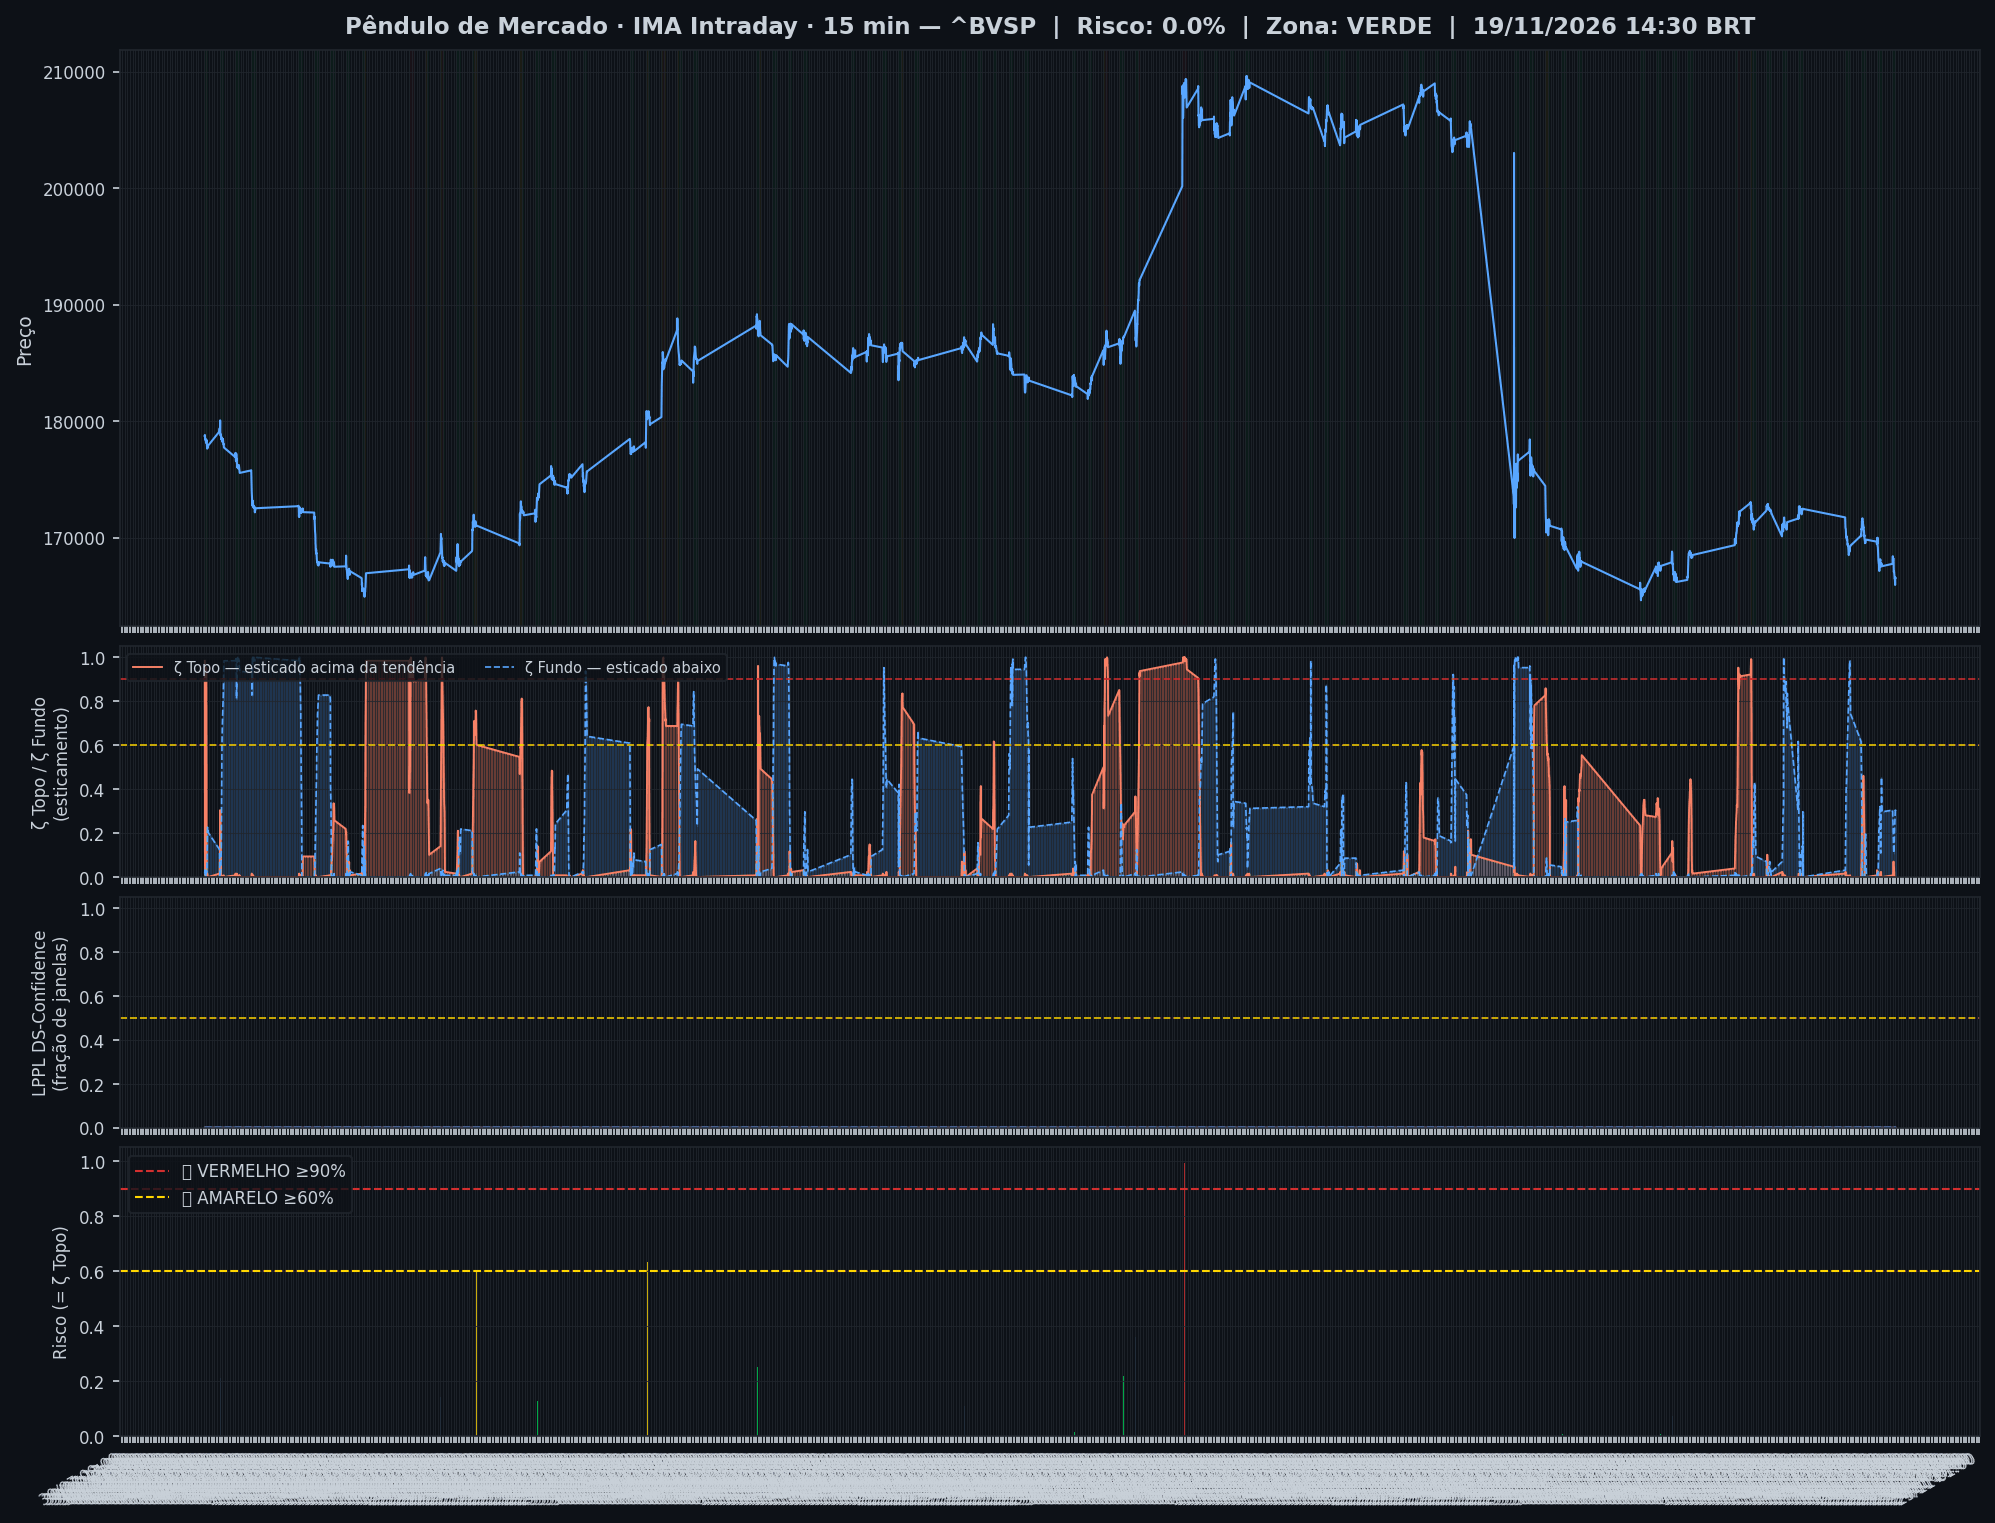
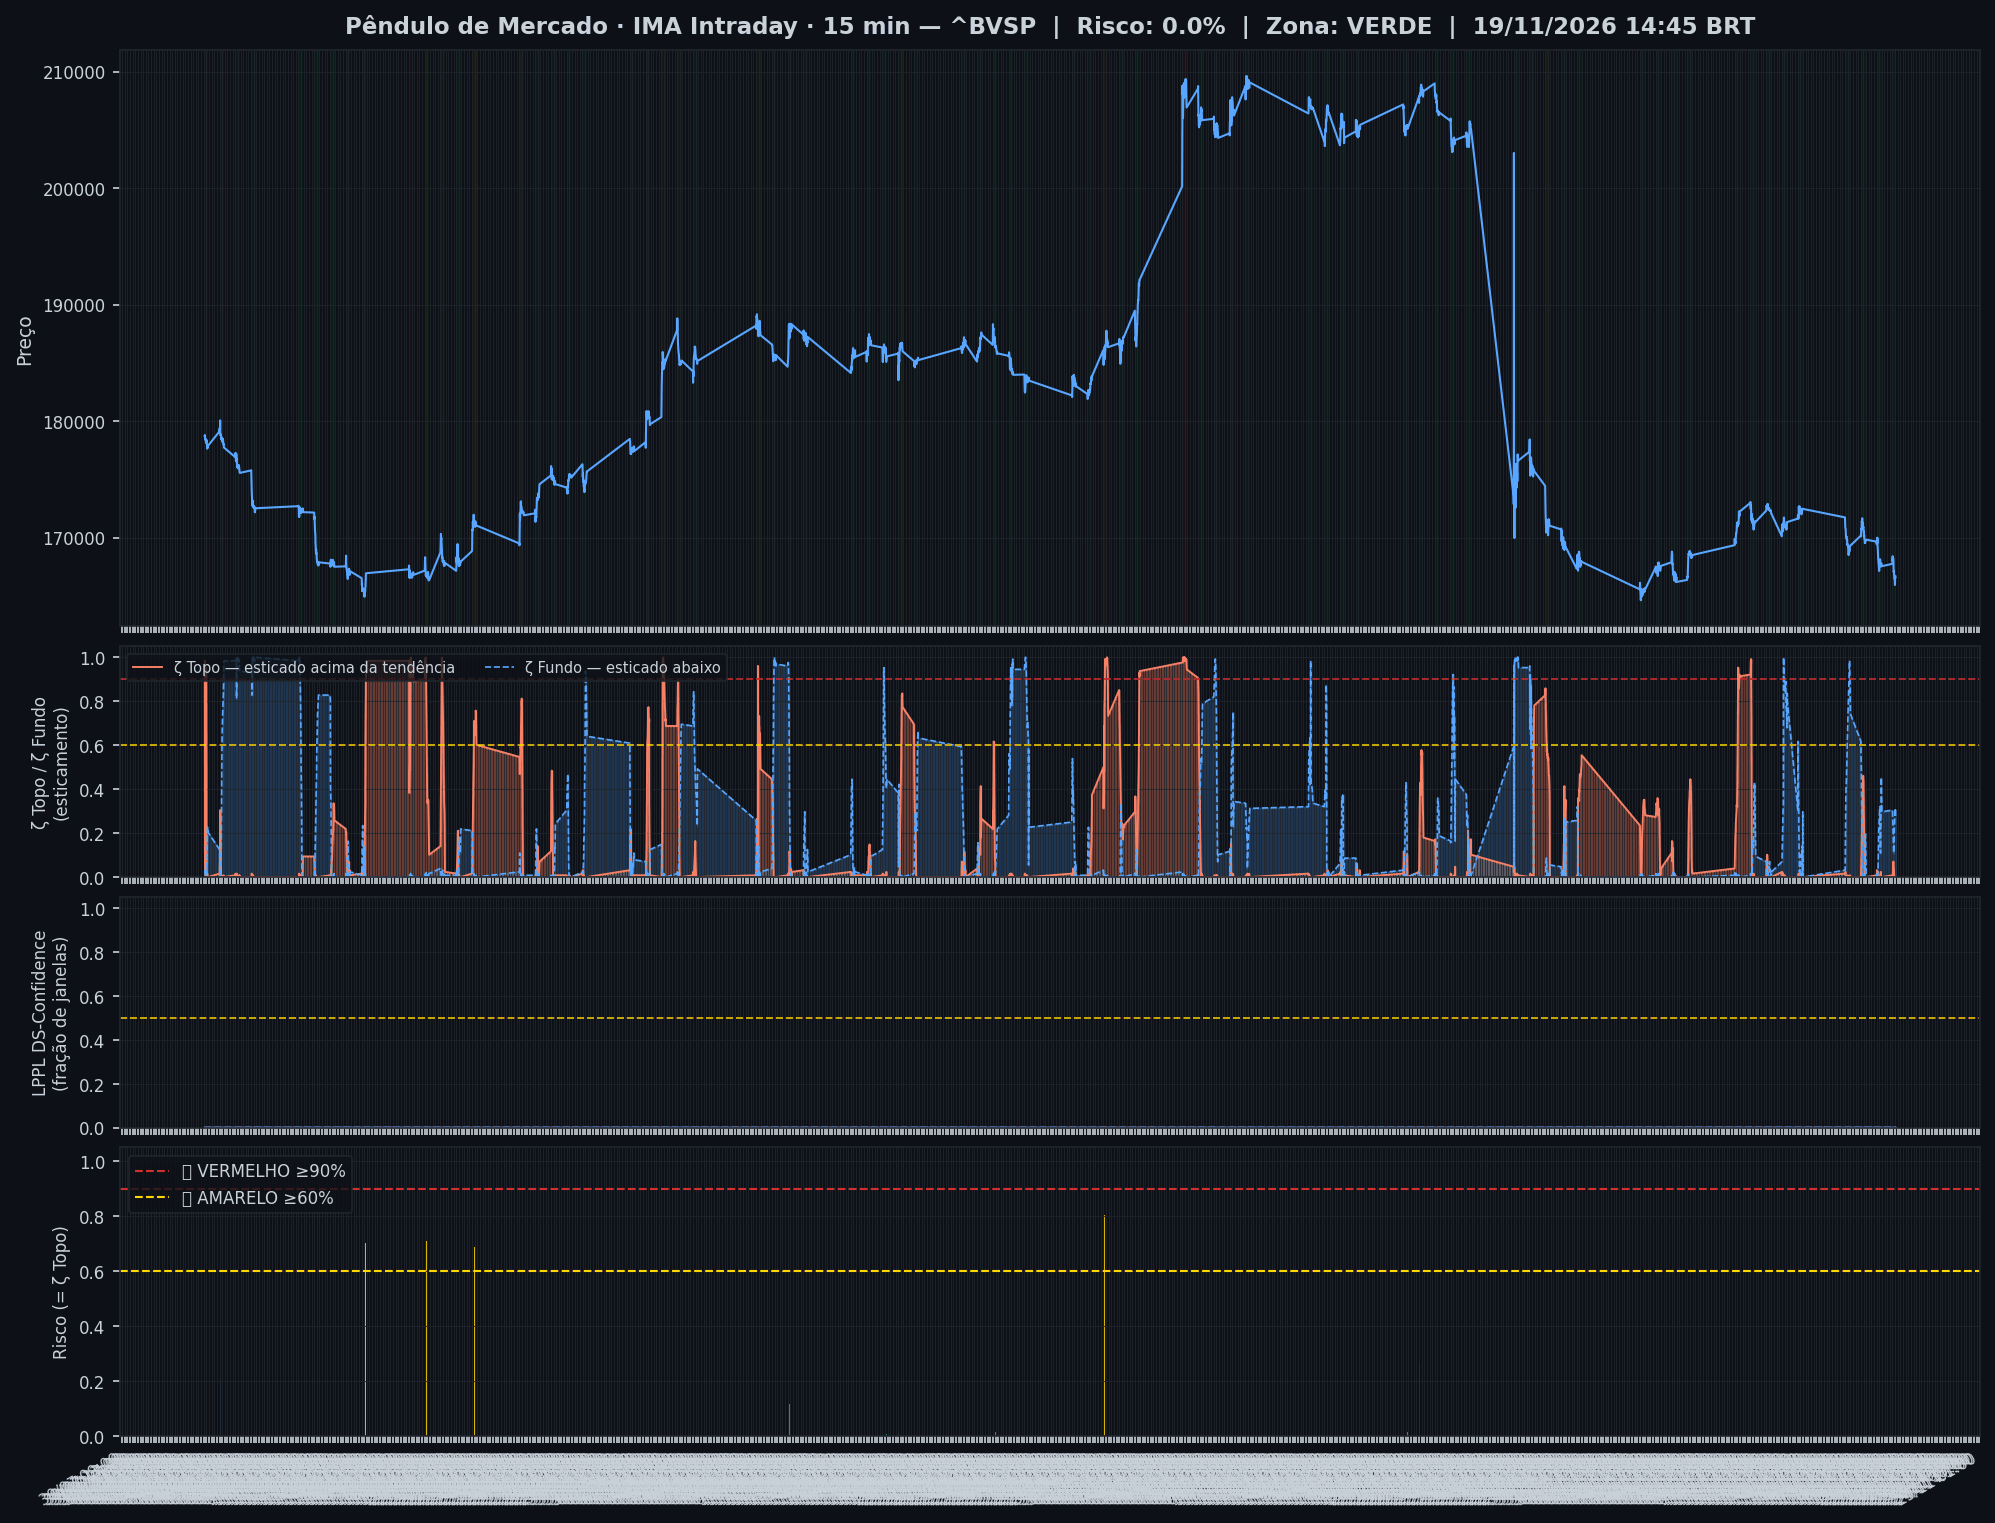
🤖 Auto: Sinal 19/11/2026 15:01

Changed region(s): [[0.7459, 0.4938, 0.808, 0.5863]]

diff --git a/content/intraday/2026-11-19.md b/content/intraday/2026-11-19.md
@@ -1,13 +1,13 @@
 ---
-title: "🟢 Intraday 19/11/2026 14:30 BRT — VERDE"
+title: "🟢 Intraday 19/11/2026 14:45 BRT — VERDE"
 date: 2026-11-19
 tags: [intraday]
 ---
 
-> [!success] Onde o mercado está agora (19/11 14:30, candles de 15 min): **🟢 Calmo**
+> [!success] Onde o mercado está agora (19/11 14:45, candles de 15 min): **🟢 Calmo**
 > `Pânico ◀───────●─────────────▶ Euforia`
 >
-> **O Ibovespa cai 0,60% agora, aos 166.535 pontos.** O preço está dentro da sua faixa normal, sem excesso para cima nem para baixo.
+> **O Ibovespa cai 0,52% agora, aos 166.663 pontos.** O preço está dentro da sua faixa normal, sem excesso para cima nem para baixo.
 > No gráfico diário: 🌱 Fundo se desfazendo.
 >
 > *Leitura educacional baseada em 26 anos de dados. Não é recomendação de investimento.*
@@ -20,7 +20,7 @@ tags: [intraday]
 > | 📍 **Sinais** | hoje: nenhum sinal | [abrir](sinais-topo-fundo/) |
 > | 🧪 **Placar ao vivo** | 1 operação(ões), 0 com lucro, soma -0,8% | [abrir](operacoes/) |
 
-> [!success] IMA Intraday · 15 min (19/11 14:30): 🟢 **VERDE** — Risco 0% · ＝ +0 p.p. vs leitura anterior
+> [!success] IMA Intraday · 15 min (19/11 14:45): 🟢 **VERDE** — Risco 0% · ＝ +0 p.p. vs leitura anterior
 > `░░░░░░░░░░░░░░░░░░░░`
 > Preço na faixa normal em torno da tendência.
 
@@ -32,13 +32,13 @@ tags: [intraday]
 >
 > *Leitura educacional baseada em 26 anos de dados, não recomendação. [Como usar](../metodologia/crise#3-como-usar-na-prática).*
 
-| Indicador — IMA Intraday · 15 min (19/11 14:30) | Valor |
+| Indicador — IMA Intraday · 15 min (19/11 14:45) | Valor |
 |---|---|
 | 🔴 ζ Topo — preço esticado acima da tendência | **0%** |
-| 🔵 ζ Fundo — preço esticado abaixo da tendência | 30% |
+| 🔵 ζ Fundo — preço esticado abaixo da tendência | 27% |
 | 🫧 LPPL bolha — alta super-exponencial (risco de crash) | 0% |
 | 🫧 LPPL antibolha — queda super-exponencial (risco de repique) | 0% |
-| 📊 Ibovespa | 166.535 pts |
+| 📊 Ibovespa | 166.663 pts |
 
 ![Gráfico do sinal](../graficos/sinal_intraday.png)
 
@@ -46,6 +46,7 @@ tags: [intraday]
 
 | Data | Zona | Evento | Risco | ζ Topo | ζ Fundo | LPPL |
 |---|---|---|---|---|---|---|
+| 2026-11-19 14:45 | 🟢 VERDE |  | **0%** | 0% | 27% | 0% |
 | 2026-11-19 14:30 | 🟢 VERDE |  | **0%** | 0% | 30% | 0% |
 | 2026-11-19 14:15 | 🟢 VERDE |  | **0%** | 0% | 30% | 0% |
 | 2026-11-19 14:00 | 🟢 VERDE |  | **0%** | 0% | 30% | 0% |
@@ -75,7 +76,6 @@ tags: [intraday]
 | 2026-11-18 16:15 | 🟢 VERDE |  | **2%** | 2% | 23% | 0% |
 | 2026-11-18 16:00 | 🟢 VERDE |  | **2%** | 2% | 16% | 0% |
 | 2026-11-18 15:45 | 🟢 VERDE |  | **2%** | 2% | 11% | 0% |
-| 2026-11-18 15:30 | 🟢 VERDE |  | **1%** | 1% | 15% | 0% |
 
 <small>Destaques: 🟡 ≥ 60% · 🔴 ≥ 90% (Risco e ζ Topo) · 🔵 ≥ 60% · 🔪 ≥ 90% (ζ Fundo) · 🫧 ≥ 30% · 🫧🔴 ≥ 50% (LPPL)</small>
 
@@ -84,43 +84,43 @@ tags: [intraday]
 **4% dos ativos em tensão** (0🔴 1🟡) · **4 com ζ Fundo alto** — quanto mais ativos disparam juntos, mais confiável o sinal.
 
 > [!danger] Em destaque no multi-ativo
-> 🔪 **PRIO** ζ Fundo 100% · 🟡 **BRASIL** ζ Topo 88% · 🔵 **SUZANO S.A.** ζ Fundo 81% · 🔵 **TELEF BRASIL** ζ Fundo 73% · 🔵 **REDE D OR** ζ Fundo 65%
+> 🔪 **PRIO** ζ Fundo 100% · 🟡 **BRASIL** ζ Topo 86% · 🔵 **SUZANO S.A.** ζ Fundo 79% · 🔵 **TELEF BRASIL** ζ Fundo 68% · 🔵 **REDE D OR** ζ Fundo 67%
 
 | Zona | Ativo | Setor | ζ Topo | ζ Fundo |
 |---|---|---|---|---|
 | 🟢 | **PRIO** | Petróleo | 0.0% | 🔪 **100.0%** |
-| 🟡 | **BRASIL** | Financeiro | 🟡 **87.5%** | 0.0% |
-| 🟢 | **SUZANO S.A.** | Papel/Celulose | 0.8% | 🔵 **81.2%** |
-| 🟢 | **TELEF BRASIL** | Outros | 0.0% | 🔵 **73.4%** |
-| 🟢 | **REDE D OR** | Saúde | 0.0% | 🔵 **64.8%** |
-| 🟢 | **RUMO S.A.** | Outros | 0.0% | 56.2% |
-| 🟢 | **AMBEV S/A** | Consumo | 2.3% | 42.2% |
-| 🟢 | **BRADESCO** | Financeiro | 0.0% | 41.4% |
-| 🟢 | **COPEL** | Energia | 0.0% | 29.7% |
-| 🟢 | **WEG** | Industrial | 0.8% | 23.4% |
-| 🟢 | **AXIA ENERGIA** | Energia | 0.0% | 18.8% |
-| 🟢 | **LOCALIZA** | Aluguel | 0.8% | 15.6% |
-| 🟢 | **PETROBRAS** | Petróleo | 0.0% | 13.3% |
-| 🟢 | **ULTRAPAR** | Outros | 0.0% | 13.3% |
-| 🟢 | **VALE** | Mineração | 0.0% | 11.7% |
-| 🟢 | **PETROBRAS** | Petróleo | 0.0% | 11.7% |
-| 🟢 | **GERDAU** | Siderurgia | 11.7% | 4.7% |
-| 🟢 | **BTGP BANCO** | Financeiro | 0.0% | 10.2% |
-| 🟢 | **EQUATORIAL** | Energia | 0.8% | 9.4% |
-| 🟢 | **USD/BRL** | Câmbio | 9.4% | 6.2% |
-| 🟢 | **ITAUUNIBANCO** | Financeiro | 0.0% | 5.5% |
-| 🟢 | **EMBRAER** | Outros | 1.6% | 2.3% |
-| 🟢 | **B3** | Financeiro | 2.3% | 1.6% |
-| 🟢 | **SABESP** | Saneamento | 1.6% | 1.6% |
-| 🟢 | **ITAUSA** | Financeiro | 1.6% | 1.6% |
-| 🟢 | **ENEVA** | Energia | 0.8% | 0.8% |
-| 🟢 | **VIBRA** | Energia | 0.0% | 0.8% |
+| 🟡 | **BRASIL** | Financeiro | 🟡 **85.9%** | 0.0% |
+| 🟢 | **SUZANO S.A.** | Papel/Celulose | 0.0% | 🔵 **78.9%** |
+| 🟢 | **TELEF BRASIL** | Outros | 0.0% | 🔵 **68.0%** |
+| 🟢 | **REDE D OR** | Saúde | 0.0% | 🔵 **67.2%** |
+| 🟢 | **RUMO S.A.** | Outros | 0.0% | 57.0% |
+| 🟢 | **BRADESCO** | Financeiro | 0.0% | 42.2% |
+| 🟢 | **AMBEV S/A** | Consumo | 3.9% | 36.7% |
+| 🟢 | **COPEL** | Energia | 0.0% | 21.1% |
+| 🟢 | **WEG** | Industrial | 0.0% | 20.3% |
+| 🟢 | **B3** | Financeiro | 18.0% | 2.3% |
+| 🟢 | **AXIA ENERGIA** | Energia | 0.0% | 14.8% |
+| 🟢 | **PETROBRAS** | Petróleo | 0.0% | 14.1% |
+| 🟢 | **PETROBRAS** | Petróleo | 0.0% | 10.9% |
+| 🟢 | **EQUATORIAL** | Energia | 0.0% | 10.9% |
+| 🟢 | **GERDAU** | Siderurgia | 10.9% | 3.1% |
+| 🟢 | **LOCALIZA** | Aluguel | 0.8% | 10.9% |
+| 🟢 | **VALE** | Mineração | 0.0% | 10.2% |
+| 🟢 | **USD/BRL** | Câmbio | 4.7% | 9.4% |
+| 🟢 | **ULTRAPAR** | Outros | 0.0% | 8.6% |
+| 🟢 | **BTGP BANCO** | Financeiro | 1.6% | 4.7% |
+| 🟢 | **SABESP** | Saneamento | 3.9% | 2.3% |
+| 🟢 | **ITAUSA** | Financeiro | 3.1% | 0.8% |
+| 🟢 | **ENEVA** | Energia | 3.1% | 0.8% |
+| 🟢 | **ITAUUNIBANCO** | Financeiro | 1.6% | 2.3% |
+| 🟢 | **EMBRAER** | Outros | 0.8% | 2.3% |
+| 🟢 | **VIBRA** | Energia | 0.8% | 1.6% |
 
 <small>Destaques: 🟡 ≥ 60% · 🔴 ≥ 90% (Risco e ζ Topo) · 🔵 ≥ 60% · 🔪 ≥ 90% (ζ Fundo) · 🫧 ≥ 30% · 🫧🔴 ≥ 50% (LPPL)</small>
 
 ![Monitor multi-ativo](../graficos/multi_intraday.png)
 
-*Página atualizada em 19/11/2026 14:45 BRT (leitura da barra de 2026-11-19 14:30 BRT).*
+*Página atualizada em 19/11/2026 15:01 BRT (leitura da barra de 2026-11-19 14:45 BRT).*
 
 > [!warning] O que este indicador não faz
 > Medido em 5 anos de Ibovespa, o ζ **não antecipa** topos nem fundos: a capacidade de separar o que sobe do que cai ficou em 0,49–0,52, e 0,50 é moeda jogada ao ar. Ele descreve o estado de agora; não é aviso do que vem. As zonas verde/amarelo/vermelho continuam na página como descrição desse estado — **não as use como sinal de entrada ou saída**.

diff --git a/content/index.md b/content/index.md
@@ -6,12 +6,12 @@ tags: [home]
 
 **As ondas do mercado, explicadas.** Leitura do Ibovespa com estatística de 26 anos, baseada no trabalho de pesquisadores e traders reconhecidos e adaptada por Jarbas Daniel da Costa.
 
-*Última atualização: 19/11/2026 14:45 BRT · Intraday 15min*
+*Última atualização: 19/11/2026 15:01 BRT · Intraday 15min*
 
-> [!success] Onde o mercado está agora (19/11 14:30, candles de 15 min): **🟢 Calmo**
+> [!success] Onde o mercado está agora (19/11 14:45, candles de 15 min): **🟢 Calmo**
 > `Pânico ◀───────●─────────────▶ Euforia`
 >
-> **O Ibovespa cai 0,60% agora, aos 166.535 pontos.** O preço está dentro da sua faixa normal, sem excesso para cima nem para baixo.
+> **O Ibovespa cai 0,52% agora, aos 166.663 pontos.** O preço está dentro da sua faixa normal, sem excesso para cima nem para baixo.
 > No gráfico diário: 🌱 Fundo se desfazendo.
 >
 > *Leitura educacional baseada em 26 anos de dados. Não é recomendação de investimento.*
@@ -44,18 +44,18 @@ tags: [home]
 > *Leitura educacional baseada em 26 anos de dados, não recomendação. [Como usar](metodologia/crise#3-como-usar-na-prática).*
 
 > [!info]- 🌊 Detalhes do Sinal IMA (indicadores e últimos 7 pregões)
-> > [!success] IMA Intraday · 15 min (19/11 14:30): 🟢 **VERDE** — Risco 0% · ＝ +0 p.p. vs leitura anterior
+> > [!success] IMA Intraday · 15 min (19/11 14:45): 🟢 **VERDE** — Risco 0% · ＝ +0 p.p. vs leitura anterior
 > > `░░░░░░░░░░░░░░░░░░░░`
 > > Preço na faixa normal em torno da tendência.
 >
 >
-> | Indicador — IMA Intraday · 15 min (19/11 14:30) | Valor |
+> | Indicador — IMA Intraday · 15 min (19/11 14:45) | Valor |
 > |---|---|
 > | 🔴 ζ Topo — preço esticado acima da tendência | **0%** |
-> | 🔵 ζ Fundo — preço esticado abaixo da tendência | 30% |
+> | 🔵 ζ Fundo — preço esticado abaixo da tendência | 27% |
 > | 🫧 LPPL bolha — alta super-exponencial (risco de crash) | 0% |
 > | 🫧 LPPL antibolha — queda super-exponencial (risco de repique) | 0% |
-> | 📊 Ibovespa | 166.535 pts |
+> | 📊 Ibovespa | 166.663 pts |
 >
 > **Multi-ativo:** 4% em tensão (0🔴 1🟡 de 27 ativos)
 >
@@ -63,7 +63,7 @@ tags: [home]
 >
 > | Data | Zona | Risco | ζ Topo | ζ Fundo | LPPL |
 > |---|---|---|---|---|---|
-> | [19/11/2026](intraday/2026-11-19) | 🟢 VERDE | **0%** | 0% | 30% | 0% |
+> | [19/11/2026](intraday/2026-11-19) | 🟢 VERDE | **0%** | 0% | 27% | 0% |
 > | [18/11/2026](intraday/2026-11-18) | 🟢 VERDE | **0%** | 0% | 30% | 0% |
 >
 > <small>Destaques: 🟡 ≥ 60% · 🔴 ≥ 90% (Risco e ζ Topo) · 🔵 ≥ 60% · 🔪 ≥ 90% (ζ Fundo) · 🫧 ≥ 30% · 🫧🔴 ≥ 50% (LPPL)</small>

diff --git a/content/operacoes/entradas.md b/content/operacoes/entradas.md
@@ -31,7 +31,7 @@ description: "Compra depois de um sinal de fundo: Nadaraya no diário, semáforo
 > | Diário · Semáforo N3 após ζ Fundo | 07/07/26 a 172.021 | 10/08/26 a 172.021 | **+0,0%** | stop no preço de entrada |
 > | H4 · Semáforo N2 | 12/06/26 14h a 171.134 | 15/06/26 14h a 171.134 | **+0,0%** | stop no preço de entrada |
 >
-> <small>Atualizado 18/11 19:01 · checado no pregão às 14:45. Nota: ✅ passou no teste fora da amostra (walk-forward 2008–2026) · 🧪 em teste (H4, com aviso no Telegram) ou em observação (ζ, sem aviso) · 🧪 na tabela = operação do teste ao vivo.</small>
+> <small>Atualizado 18/11 19:01 · checado no pregão às 15:00. Nota: ✅ passou no teste fora da amostra (walk-forward 2008–2026) · 🧪 em teste (H4, com aviso no Telegram) ou em observação (ζ, sem aviso) · 🧪 na tabela = operação do teste ao vivo.</small>
 >
 > *Regras: depois de um sinal de fundo, o Diário entra quando o Nadaraya vira para cima; o Semanal e o H4 entram quando um fundo do semáforo fica fixo. Stop e saída de cada regra na [metodologia](metodologia/regras-de-operacao#entradas-do-método). Nenhuma regra de venda passou no teste. Os números do histórico têm viés de escolha (overfitting); o placar ao vivo é o que vale. Leitura educacional do método, não recomendação.*
 

diff --git a/content/integridade/index.md b/content/integridade/index.md
@@ -5,7 +5,7 @@ description: "O que foi conferido, contra qual fonte e quando — medido na hora
 tags: [integridade]
 ---
 
-*Pregão conferido: **18/11/2026**, com 59 tabelas no acervo · página gerada em 19/11/2026 14:45*
+*Pregão conferido: **18/11/2026**, com 59 tabelas no acervo · página gerada em 19/11/2026 15:01*
 
 O pregão conferido é o último **fechado e arquivado inteiro**, não o de hoje: enquanto o dia corre, só algumas tabelas estão gravadas, e conferir um dia pela metade produziria alarme falso.
 
@@ -22,7 +22,7 @@ Esta página não declara que o site está correto. Ela **mede** e escreve o res
 | Tabelas com conteúdo fora da curva | **1** — veja a seção 1 |
 | Páginas publicadas | 358 |
 | Conferências cruzadas das páginas | **2 divergência(s)** de 71 — veja a seção 2 |
-| Página escrita mais recentemente | 19/11 14:45 |
+| Página escrita mais recentemente | 19/11 15:01 |
 | Páginas sem data no cabeçalho | 9 — cegas para a conferência de dado |
 
 ## 1 · Acervo do boletim diário

diff --git a/content/historico.md b/content/historico.md
@@ -5,7 +5,7 @@ tags: [historico]
 
 # 📜 Histórico de leituras (v5)
 
-**2.500 leituras** desde 2026-07-03. Na página ficam os últimos 3 dias leitura por leitura e o resumo de cada dia anterior; o registro inteiro está no arquivo para baixar.
+**2.501 leituras** desde 2026-07-03. Na página ficam os últimos 3 dias leitura por leitura e o resumo de cada dia anterior; o registro inteiro está no arquivo para baixar.
 
 [**Baixar o histórico completo**](historico-completo.csv) (109 KB · abre no Excel e no LibreOffice)
 
@@ -16,6 +16,7 @@ tags: [historico]
 
 | Data | Modo | Zona | Risco | IMA | LPPL |
 |---|---|---|---|---|---|
+| 2026-11-19 14:45 | intraday | 🟢 VERDE | 0% | 0% | 0% |
 | 2026-11-19 14:30 | intraday | 🟢 VERDE | 0% | 0% | 0% |
 | 2026-11-19 14:15 | intraday | 🟢 VERDE | 0% | 0% | 0% |
 | 2026-11-19 14:00 | intraday | 🟢 VERDE | 0% | 0% | 0% |

diff --git a/content/operacoes/ranking.md b/content/operacoes/ranking.md
@@ -5,7 +5,7 @@ tags: [operacoes]
 description: "As regras de compra do site ordenadas pelo resultado, com treino, teste e placar ao vivo"
 ---
 
-*Atualizado 19/11/2026 14:45 · histórico simulado com as regras congeladas em 23/10/2026 + placar ao vivo.*
+*Atualizado 19/11/2026 15:01 · histórico simulado com as regras congeladas em 23/10/2026 + placar ao vivo.*
 
 As regras de compra do site, **da que mais rendeu para a que menos rendeu**. O resultado é por operação, no índice à vista, sem custos e sem juros compostos (a soma é só a soma das operações). **Treino** = entradas de 2001 a 2013 e **teste** = 2014 em diante: uma regra só é confiável se ganhou nos dois. O único resultado sem nenhum ajuste ao histórico é o **placar ao vivo**.
 

diff --git a/content/linha-do-tempo/index.md b/content/linha-do-tempo/index.md
@@ -5,7 +5,7 @@ description: "Todo sinal, ordem, stop e aviso do Pêndulo de Mercado, do mais re
 tags: [eventos]
 ---
 
-*Atualizada 19/11/2026 14:45 BRT · a cada 15 min no pregão e às 19h.*
+*Atualizada 19/11/2026 15:01 BRT · a cada 15 min no pregão e às 19h.*
 
 Tudo o que o sistema fez ou detectou, **do mais recente para o mais antigo**: sinais de topo e fundo, ordens de compra e de venda armadas, compras, vendas, stops, avisos de 🚨 preço perto do nível e mudanças do Sinal IMA. Os **últimos 7 dias** ficam abertos; o resto, por **ano → mês → dia**.
 

diff --git a/content/avisos/index.md b/content/avisos/index.md
@@ -2,7 +2,7 @@
 title: "⚠ Avisos: o que saber antes de usar os números"
 ---
 
-*Gerado em 19/11/2026 14:45*
+*Gerado em 19/11/2026 15:01*
 
 Este site publica muitos números, e cada um tem uma limitação que importa na hora de
 decidir. As limitações estão escritas nas próprias páginas, mas quem chega direto numa
